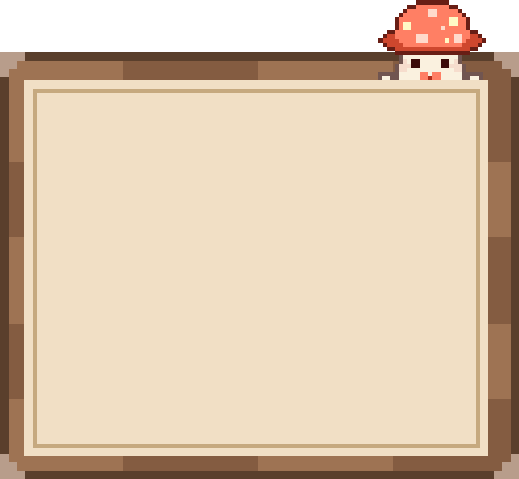
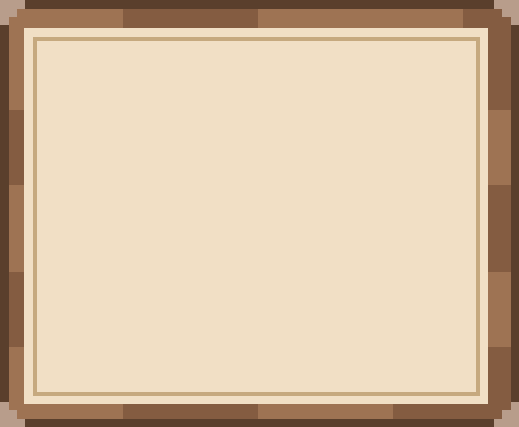
2025.09.14 15:37
修改了改片選擇介面的圖片與設計未來調用的程式碼，接下來是架設玩家與敵人的血量，以及卡片的各項參數。

diff --git a/Scripts/System/Card Battle System/System/Child/SelectedCardSystem.cs b/Scripts/System/Card Battle System/System/Child/SelectedCardSystem.cs
@@ -1,11 +1,11 @@
 using System.Card_Battle_System.Object.Card_Slot;
 using System.Card_Battle_System.Object.Card.Base;
-using System.Card_Battle_System.Object.Card.Type.Battle.System.Main;
 using System.Collections.Generic;
 using Data.DOTween.Basic;
 using Data.Player;
 using DG.Tweening;
 using UnityEngine;
+using UnityEngine.UI;
 
 namespace System.Card_Battle_System.System.Child
 {
@@ -20,6 +20,7 @@ namespace System.Card_Battle_System.System.Child
         
         [field: Header("Object")]
         [field: SerializeField] private GameObject SelectedCardUI;
+        [field: SerializeField] private Button ConfirmButton;
         
         [field: Header("Data")]
         [field: SerializeField] private PlayerSO PlayerData;
@@ -31,11 +32,29 @@ namespace System.Card_Battle_System.System.Child
         private void OnEnable()
         {
             HandCardSystem.TryAddCardToSelected += TryAdd;
+            ConfirmButton.onClick.AddListener(OnConfirmButtonClick);
         }
         
         private void OnDisable()
         {
             HandCardSystem.TryAddCardToSelected -= TryAdd;
+            ConfirmButton.onClick.RemoveListener(OnConfirmButtonClick);
+        }
+
+        private void OnConfirmButtonClick()
+        {
+            for (var i = 0; i < CardSlots.Count; i++)
+            {
+                var slot = CardSlots[i];
+                if (slot.IsEmpty())
+                {
+                    Debug.Log("還有卡片可以選擇");
+                    return;
+                }
+
+                if (i == CardSlots.Count - 1)
+                    CloseSelectedCardUI();
+            }
         }
 
         #region SelectedCardUI
@@ -53,6 +72,7 @@ namespace System.Card_Battle_System.System.Child
 
             public void CloseSelectedCardUI()
             {
+                SelectedCardUI.SetActive(false);
             }
         #endregion
 
